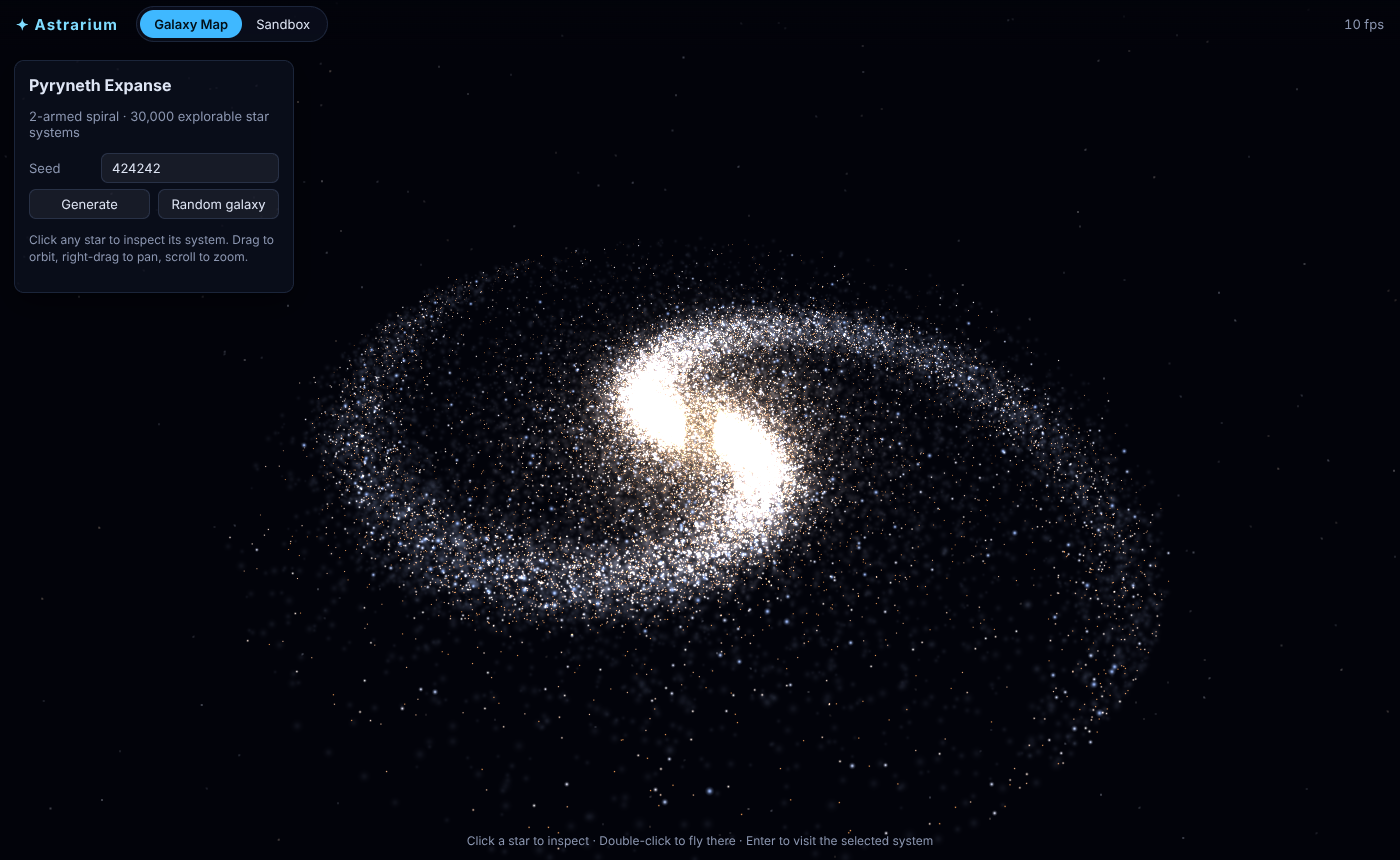
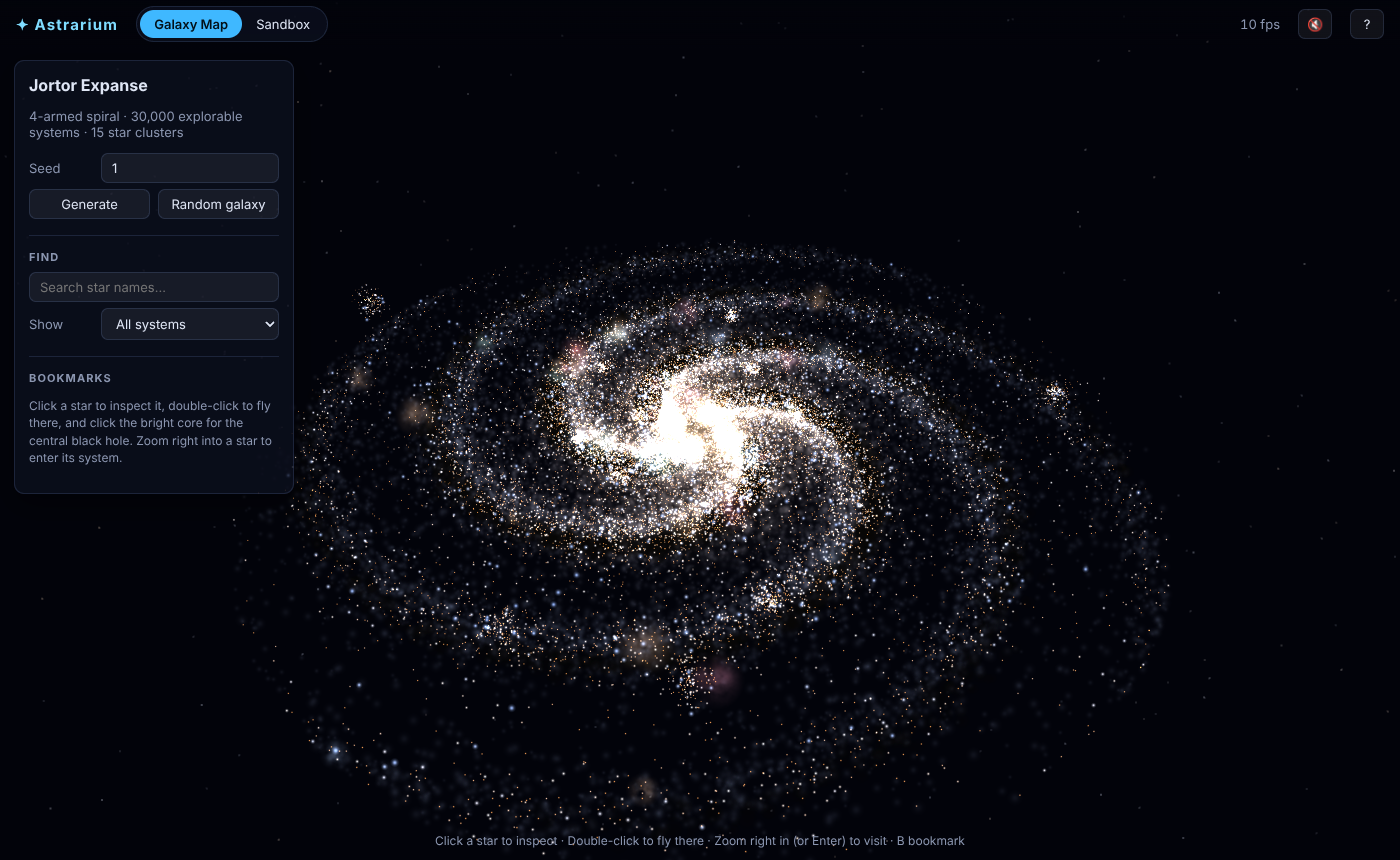
Add CI and GitHub Pages workflows; update README and screenshots
Claude-Session: https://claude.ai/code/session_01EMqHA4LyYYtk6c9dZBom6Y

diff --git a/README.md b/README.md
@@ -1,59 +1,101 @@
 # Astrarium: a browser universe sandbox
 
-Explore a procedurally generated galaxy, drop into any of its star systems, and then
-break them: fling planets, ignite stars, and feed black holes. Everything runs in the
-browser with real N-body gravity.
+Explore a procedurally generated galaxy, warp into any of its 30,000 star systems, and
+then break them: fling planets, shatter worlds, tear moons into rings, detonate
+supernovae, and feed black holes. Everything runs in the browser with real N-body gravity.
 
-| Galaxy map | Protoplanetary disk |
+| Galaxy map | Habitable-world filter |
 | --- | --- |
-| ![Galaxy map](docs/screenshots/galaxy-map.png) | ![Protoplanetary disk](docs/screenshots/protoplanetary.png) |
-| **Solar System** | **Spawn tool & orbit readout** |
-| ![Solar system](docs/screenshots/solar-system.png) | ![Spawn tool](docs/screenshots/spawn.png) |
+| ![Galaxy map](docs/screenshots/galaxy-map.png) | ![Habitable filter](docs/screenshots/galaxy-filter.png) |
+| **Saturn close-up** | **A moon torn into a ring** |
+| ![Saturn](docs/screenshots/saturn.png) | ![Ring maker](docs/screenshots/ring-maker.png) |
+| **Giant impact** | **Galactic core** |
+| ![Giant impact](docs/screenshots/giant-impact.png) | ![Galactic core](docs/screenshots/galactic-core.png) |
+| **2,000-star cluster (Barnes–Hut)** | |
+| ![Star cluster](docs/screenshots/star-cluster.png) | |
+
+## Run it
 
 ```
 npm install
-npm run dev      # http://localhost:5173
-npm test         # physics + procgen tests
-npm run build    # static site in dist/
+npm run dev        # http://localhost:5173
+npm test           # physics, procgen and protocol tests
+npm run build      # static site in dist/
 ```
 
-## What's in it
+### Put it online (GitHub Pages)
 
-**Galaxy Map**
-- Seeded spiral galaxies (2–5 arms, bulge, disk) with 30,000 selectable stars plus 60,000 background-glow points.
-- Every star is deterministic: its seed produces the same spectral class, planets, moons, belts and companions every time.
-- Click a star to inspect it, double-click to fly to it, then **Enter system** to load it into the sandbox.
+The repo includes `.github/workflows/deploy.yml`. To publish:
+
+1. In the GitHub repo, go to **Settings → Pages** and set **Source** to **GitHub Actions**.
+2. Push to `main` (or run the *Deploy to GitHub Pages* workflow manually from the **Actions** tab).
+3. The site appears at `https://<user>.github.io/<repo>/`.
+
+`.github/workflows/ci.yml` type-checks, tests and builds every push and pull request.
+
+## Features
+
+### Galaxy map
+- Seeded spiral galaxies with 2–5 arms, a bulge, open and globular **star clusters**, glowing **nebulae**, dark **dust lanes**, and a **supermassive black hole** at the centre that you can visit.
+- **30,000 explorable systems.** Each star's seed deterministically generates its spectral class, planets, moons, asteroid belts, companions and habitable worlds.
+- **Search** by star name, and **filter** for habitable worlds, gas giants, moons, 6+ planets, binaries, asteroid belts, massive O/B stars, bookmarks or visited systems.
+- **Bookmarks** and **visited** markers, saved per galaxy in your browser.
+- **Seamless warps:** zoom right into a star to drop into its system, and zoom far out of a system to return to the galaxy at that star.
 - Share a galaxy with its URL: `#galaxy=<seed>`.
 
-**Sandbox**
-- N-body gravity: kick-drift-kick leapfrog with an adaptive global timestep (a fixed fraction of the shortest pairwise dynamical time).
-- Collisions are inelastic merges that conserve mass and momentum, and throw off debris.
-- Emergent transitions: enough mass ignites a planet into a star, and stars of 50 M☉ or more collapse into black holes.
-- Thousands of massless test particles (asteroid belts, galaxy disks, debris) that feel gravity but don't exert it.
-- Spawn tool: click to place, drag to set velocity, with **auto-orbit** and a live predicted trajectory.
-- Select, follow, delete, and double or halve a body's mass. The info panel shows orbital elements (a, e, period).
-- Controls for time speed (0.001–100 yr/s), a gravity multiplier, and toggles for collisions, debris, trails and labels.
-- Presets: Solar System, Protoplanetary Disk, Binary Star, Figure-8 Three-Body, Rogue Star Flyby, Black Hole Feast, Galaxy Collision, Empty Space.
+### Physics
+- **N-body gravity** with a kick-drift-kick leapfrog integrator and an adaptive timestep.
+- **Barnes–Hut octree** switches on automatically above 160 bodies, so thousands of mutually attracting bodies stay interactive.
+- **Runs in a Web Worker**, so the UI never stutters. Append `#worker=0` to the URL to run physics on the main thread instead.
+- **Collisions:** slow impacts merge (mass and momentum conserved). Fast rocky impacts **shatter** into a remnant plus fragments that can re-accrete or become moons.
+- **Tidal disruption:** bodies that pass inside another body's **Roche limit** are torn into debris streams and rings. Black holes shred stars.
+- **Stellar evolution events:** planets ignite into stars, and stars of 8 M☉ or more can go **supernova**. A supernova leaves a neutron star or black hole and launches a shockwave that strips nearby planets. Neutron stars collapse to black holes above 2.5 M☉.
+- **Climate model:** surface temperature from all nearby stars, climate classes from frozen to molten, habitable zones, and habitability checks.
 
-### Controls
+### Sandbox tools
+- **Spawn tool:** asteroids, planets, gas giants, stars, neutron stars, black holes and dust clouds. Click to place, drag to set velocity. **Auto-orbit** starts a body in a circular orbit, and a live **predicted trajectory** is drawn while you drag.
+- **Inspect anything:** mass, temperature, climate, orbit (a, e, period), the selected body's **orbit ellipse**, Roche-limit warnings, and a **forecast** of the next close approach or **collision**.
+- Follow a body, double or halve its mass, delete it, or detonate a massive star.
+- **Hold-to-rewind**, plus **undo/redo** for every change.
+- **Save and open** scene files, and **copy a share link**: the scene is compressed into the URL.
+- Display options: trails (absolute, or relative to the followed body), labels, orbit paths and habitable zones.
+- Physics toggles: collisions, debris, shattering and tidal breakup, plus a gravity multiplier and time speed from 0.001 to 100 yr/s.
+
+### Looks and feel
+- **Procedural planets:** oceans, continents and ice caps on temperate worlds, plus frozen, desert and molten (glowing lava) variants. Gas giants have turbulent bands, storms and rings, and planets get cloud layers and atmosphere glow. Detail is generated lazily for planets that are large on screen.
+- Planets **change appearance as their temperature changes:** push one toward its star and watch it melt.
+- Pulsar beams, accretion disks, supernova shockwave bubbles, and impact flashes.
+- **Procedural sound:** an ambient drone plus synthesized impacts and explosions. It's off by default; turn it on with 🔇.
+- **Graphics quality** presets: Low, Medium and High.
+- First-run **tutorial** (press `?` to replay), **touch** support with double-tap, and a **mobile** layout.
+
+### Scenarios
+Solar System · Protoplanetary Disk · Giant Impact · Ring Maker · Binary Star · Figure-8 Three-Body · Rogue Star Flyby · Black Hole Feast · Supernova · Galactic Core · Star Cluster Collapse · Self-Gravitating Disk · Galaxy Collision · Empty Space
+
+## Controls
 
 | Input | Action |
 | --- | --- |
 | Drag / right-drag / scroll | Orbit / pan / zoom (in Spawn mode, right-drag orbits) |
 | Click / double-click | Select / select and follow (Sandbox); select / fly to (Galaxy) |
 | `Space` | Pause / resume |
-| `V` / `B` | Select tool / Spawn tool |
+| Hold `R` (or ⏪) | Rewind |
+| `Ctrl+Z` / `Ctrl+Shift+Z` | Undo / redo |
+| `V` / `B` | Select tool / Spawn tool (in the Galaxy view, `B` bookmarks) |
 | `F` | Follow the selected body |
 | `Del` | Delete the selected body |
+| `H` / `O` / `T` | Toggle habitable zones / orbit path / trails |
 | `[` / `]` | Slower / faster |
 | `M` | Switch between Galaxy Map and Sandbox |
 | `Enter` | Visit the selected star (Galaxy) |
+| `?` | Tutorial |
 | `Esc` | Cancel / unfollow / deselect |
 
 ## Units and simplifications
 
 - Simulation units are **AU, solar masses and years**, so `G = 4π²`.
-- Body radii are **inflated** so they're visible and collide at solar-system scales. The same radius is used for rendering and collisions. Moons are only generated where they fit between this inflated surface and the planet's Hill sphere.
+- Body radii are **inflated** so they're visible and collide at solar-system scales. Tidal limits therefore use nominal densities by body type rather than these game radii.
+- Test particles (belts, debris, gas) are massless: they feel gravity but don't exert it. Mass lost to tidal debris isn't tracked.
 - Spectral-class frequencies are boosted for rare (O/B/A) stars to make the galaxy more varied.
 - The galaxy map is a static, procedural catalogue. Only the sandbox is simulated.
 
@@ -61,13 +103,15 @@ npm run build    # static site in dist/
 
 ```
 src/
-  sim/        physics: bodies, integrator & collisions, orbits, presets, trajectory prediction
-  procgen/    seeded RNG, name generator, star-system and galaxy generators
-  render/     Three.js views (galaxy map, system sandbox), body visuals, textures
-  ui/         small DOM helpers
+  sim/        physics: bodies, integrator, Barnes–Hut octree, collisions, tides,
+              supernovae, climate, presets, forecasts, snapshots, worker + protocol
+  procgen/    seeded RNG, names, star-system and galaxy generators
+  render/     Three.js views (galaxy, sandbox), body visuals, procedural textures, noise
+  ui/         DOM helpers, history (rewind/undo), share links, bookmarks, tutorial
+  audio.ts    WebAudio drone and effects
   app.ts      wires simulation, views, input and UI together
-tests/        vitest suites for physics and procedural generation
+tests/        vitest suites
 ```
 
 The physics core (`src/sim`) and generators (`src/procgen`) have no rendering dependencies,
-so they can be tested headlessly or ported to another engine.
+so they run headlessly in tests and in the Web Worker.
